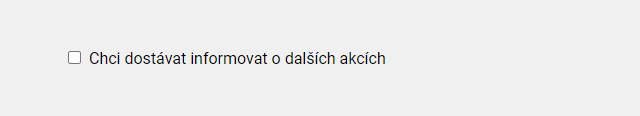
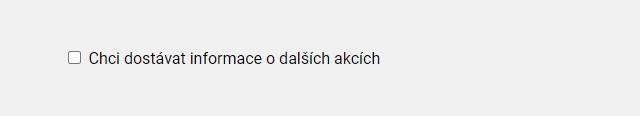
Složitější formuláře: oprava překlepů

Changed region(s): [[0.125, 0.4397, 0.625, 0.569]]

diff --git a/zaklady-js/udalosti-formulare/slozitejsi-formulare.md b/zaklady-js/udalosti-formulare/slozitejsi-formulare.md
@@ -31,10 +31,10 @@ S použitím popisků bude náš registrační formulář vypadat následovně.
 
 ```html
 <form id="registration">
-  <label class="field">
+  <label>
     Jméno: <input type="text" id="firstName" />
   </label>
-  <label class="field">
+  <label>
     Příjmení: <input type="text" id="lastName" />
   </label>
   <button type="submit">Přihlásit</button>
@@ -67,7 +67,7 @@ Takto ale rozložení prvků nevypadá moc hezky. Využijeme proto více našich
 Kromě základního textového políčka máme i další typy například `password`, `number`, `email`, `search` apod. Nastavit ve formuláři správné typy je zásadní pro to, aby se uživateli formulář dobře vyplňoval. Použití správnýcn typů u políček má dvě zásadní výhody. 
 
 1. Na mobilním telefonu se zobrazí správné klávesnice. Napřiklad pro typ `number` se zobrazí numerická klávesnice. Pro typ `email` je na klávesnici rychlej dostupný znak zavináče.
-1. Automatický předvyplňovač formulářů ve vašem prohlížeči pozná, kam má vyplnit váš email, adresu a další informace. Toto jistě znáte z různých objednávek v e-shopech.
+1. Automatický předvyplňovač formulářů ve vašem prohlížeči pozná, kam má vyplnit váš e-mail, adresu a další informace. Toto jistě znáte z různých objednávek v e-shopech.
 
 ### Zaškrtávací tlačítko
 
